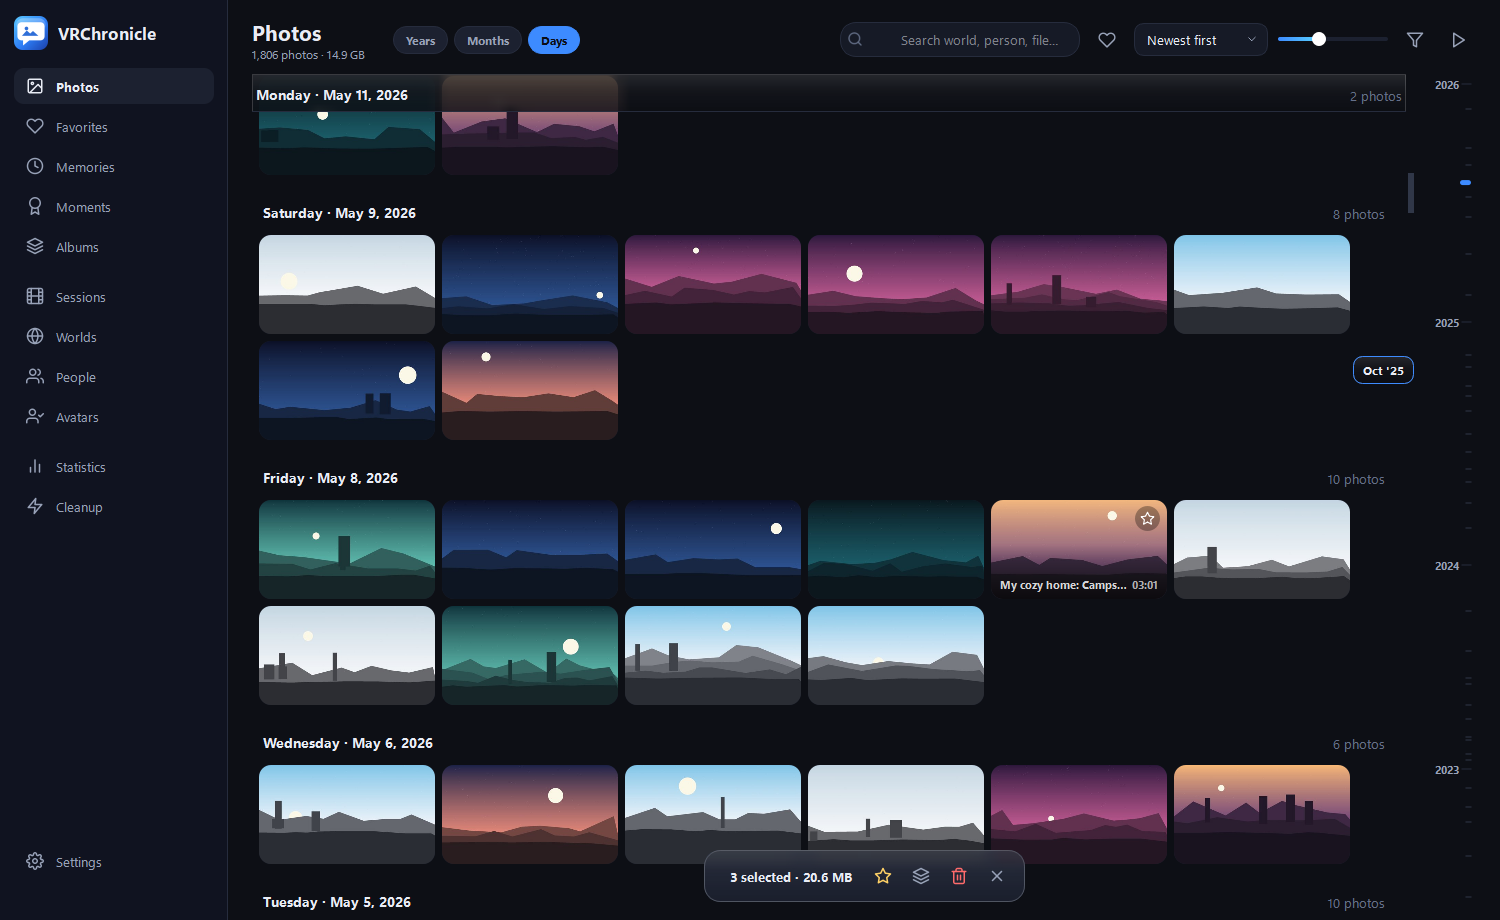
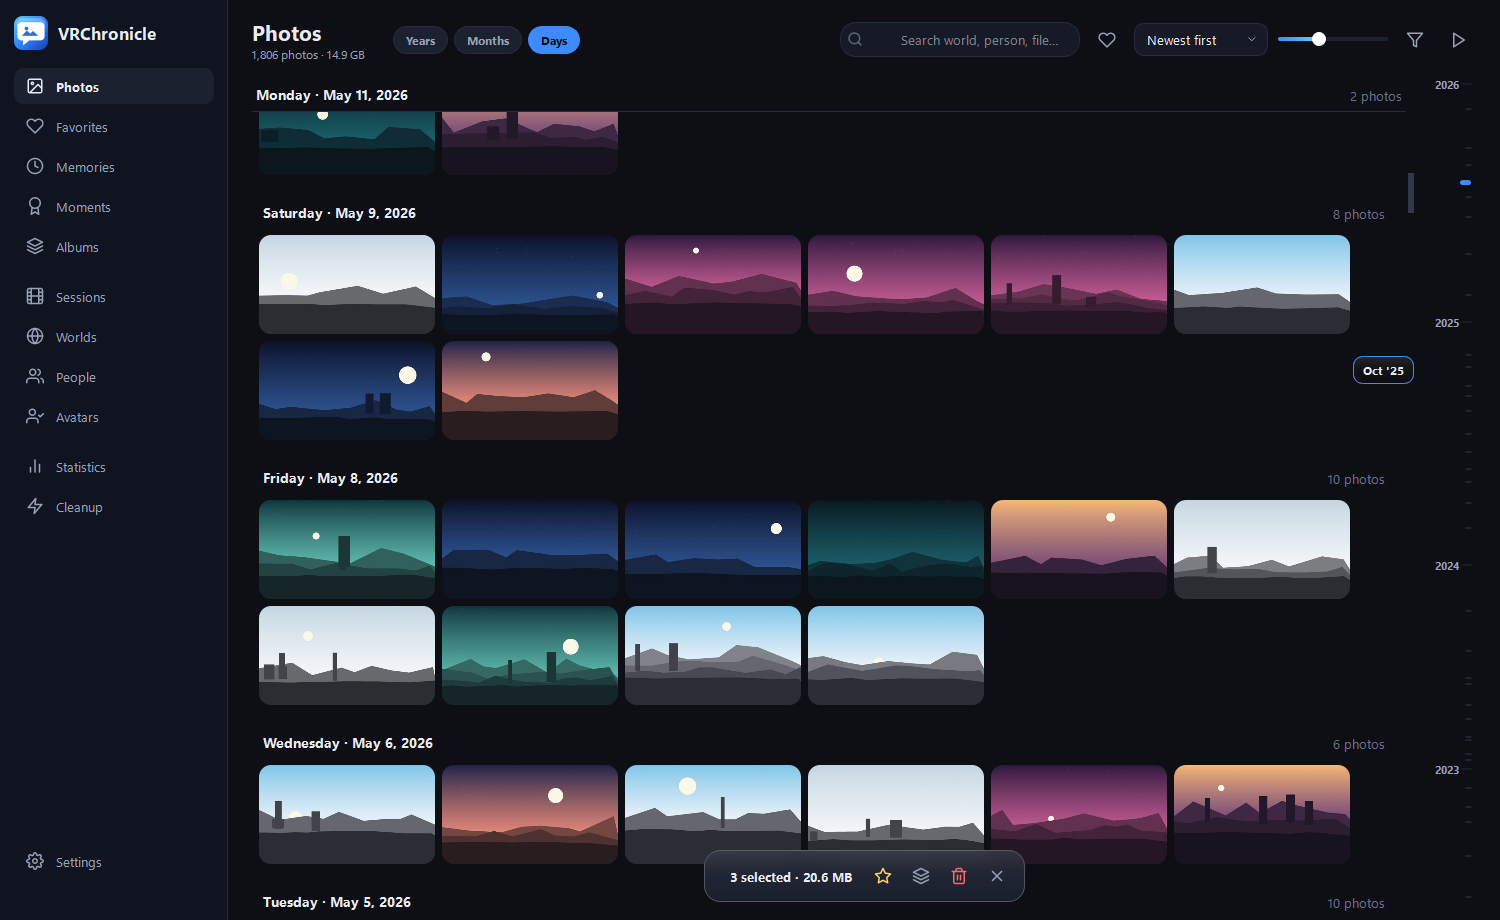
1.6.1: the glass was blocky, and the wrong panel had it
Erik, on 1.6.0: it looks angular and lopsided. Both true, and for two separate
reasons.

Blocky: the blur shrank the sample in ONE step and blew it back up in one, so
a bilinear stretch from a twelfth of the size left visible square blocks. It
now halves repeatedly and doubles back the same way -- halving with a smooth
transform is a true 2x2 average, and a few in a row approximate a gaussian.
Same cost, no blocks.

Lopsided: the pinned day header is the wrong surface for glass and no amount
of blur quality fixes that. It spans the full width of the grid while the
photos under it reach only partway across, so one half was smeared picture and
the other half flat background. Blurring a 38 px strip also only ever produces
horizontal bands. It is solid again.

Glass stays where it belongs: the selection bar, the rail's month bubble and
the toast -- small, rounded, and genuinely sitting on top of photos.

Changed region(s): [[0.276, 0.0609, 0.4293, 0.1217], [0.6747, 0.6087, 0.7667, 0.6391], [0.736, 0.5478, 0.7973, 0.5783]]

diff --git a/vrchronicle/widgets.py b/vrchronicle/widgets.py
@@ -19,8 +19,28 @@ class Glass:
     rendering the parent would draw the panel into its own backdrop.
     """
 
-    SHRINK = 12          # how far down the sample is squashed before blowing up
-    MARGIN = 20          # sample past the edges, so they blur from real content
+    RADIUS = 22          # roughly, in screen pixels
+    MARGIN = 28          # sample past the edges, so they blur from real content
+
+    @staticmethod
+    def _blur(pm, radius=RADIUS):
+        """Halve, then double back.
+
+        Halving with a smooth transform is a true 2x2 average, so a few of them
+        in a row approximate a gaussian. One hard shrink and one hard blow-up
+        does not: it leaves the sample in visible square blocks.
+        """
+        w, h = max(1, pm.width()), max(1, pm.height())
+        small, steps = pm, 0
+        while steps < 5 and (1 << steps) < radius and small.width() > 6 and small.height() > 6:
+            small = small.scaled(max(1, small.width() // 2), max(1, small.height() // 2),
+                                 Qt.IgnoreAspectRatio, Qt.SmoothTransformation)
+            steps += 1
+        for _ in range(steps):       # back up the same way, so nothing steps
+            small = small.scaled(min(w, max(1, small.width() * 2)),
+                                 min(h, max(1, small.height() * 2)),
+                                 Qt.IgnoreAspectRatio, Qt.SmoothTransformation)
+        return small.scaled(w, h, Qt.IgnoreAspectRatio, Qt.SmoothTransformation)
 
     @staticmethod
     def backdrop(widget, source):
@@ -40,11 +60,7 @@ class Glass:
         pm = source.grab(area)
         if pm.isNull():
             return None, None
-        small = pm.size() / Glass.SHRINK
-        if small.width() < 2 or small.height() < 2:
-            small = QSize(max(2, small.width()), max(2, small.height()))
-        blurred = pm.scaled(small, Qt.IgnoreAspectRatio, Qt.SmoothTransformation)
-        blurred = blurred.scaled(pm.size(), Qt.IgnoreAspectRatio, Qt.SmoothTransformation)
+        blurred = Glass._blur(pm)
         # where the sample sits relative to the widget's own origin
         return blurred, QPoint(area.x() - top_left.x(), area.y() - top_left.y())
 

diff --git a/tests/test_smoke_ui.py b/tests/test_smoke_ui.py
@@ -334,14 +334,19 @@ def test_the_floating_panels_render_their_glass(window, app):
     bar = page.view.verticalScrollBar()
     bar.setValue(int(bar.maximum() * 0.35))
     app.processEvents()
-    page._sync_sticky()
-    assert not page.sticky.isHidden()
 
-    # the sticky sits over photos, so the backdrop must actually be sampled
-    blurred, offset = Glass.backdrop(page.sticky, page.view.viewport())
+    from PySide6.QtCore import QItemSelectionModel
+    sel = page.view.selectionModel()
+    for row in range(3, 6):
+        sel.select(page.model.index(row, 0), QItemSelectionModel.Select)
+    app.processEvents()
+    assert not page.selbar.isHidden(), "selecting photos should raise the bar"
+
+    # the selection bar floats over photos, so its backdrop is really sampled
+    blurred, offset = Glass.backdrop(page.selbar, page.view.viewport())
     assert blurred is not None and not blurred.isNull()
     assert offset.x() <= 0 and offset.y() <= 0, "the sample must start outside the panel"
-    assert blurred.width() >= page.sticky.width()
+    assert blurred.width() >= page.selbar.width()
 
     for w in (page.sticky, page.selbar):
         w.resize(max(80, w.width()), max(24, w.height()))

diff --git a/vrchronicle/app.py b/vrchronicle/app.py
@@ -135,10 +135,15 @@ def main(argv=None):
                 page0 = win.page_grid
                 bar = page0.view.verticalScrollBar()
                 base = int(bar.maximum() * 0.12) or 400
-                for extra in range(0, 600, 15):     # land inside a day, not on its header
+                from PySide6.QtCore import QPoint as _QP
+                from .gridmodel import KindRole as _KR, KIND_PHOTO as _KP
+                vp = page0.view.viewport()
+                for extra in range(0, 900, 15):     # inside a day, photos at the foot
                     bar.setValue(base + extra)
                     page0._sync_sticky()
-                    if not page0.sticky.isHidden():
+                    under = page0.view.indexAt(_QP(vp.width() // 2, vp.height() - 60))
+                    if (not page0.sticky.isHidden()
+                            and under.isValid() and under.data(_KR) == _KP):
                         break
                 if key == "glass":              # ...with the floating panels up
                     from PySide6.QtCore import QItemSelectionModel

diff --git a/vrchronicle/gridpage.py b/vrchronicle/gridpage.py
@@ -231,10 +231,11 @@ class StickyDay(QWidget):
         p.setRenderHint(QPainter.Antialiasing, True)
         p.setRenderHint(QPainter.SmoothPixmapTransform, True)
         r = QRectF(self.rect())
-        # square top corners: it is pinned to the edge, not floating free
-        if not widgets.Glass.paint(p, self, self._glass, radius=0,
-                                   tint=style.PAL["bg"], tint_alpha=205):
-            p.fillRect(r, QColor(style.PAL["bg"]))
+        # Solid, deliberately. This bar spans the whole width while the photos
+        # under it only reach partway across, so glass here is half smeared
+        # picture and half flat background -- lopsided, and blurring a 38px
+        # strip only ever produces bands.
+        p.fillRect(r, QColor(style.PAL["bg"]))
         p.setPen(QColor(style.PAL["border"]))
         p.drawLine(QPointF(r.left(), r.bottom() - 0.5),
                    QPointF(r.right(), r.bottom() - 0.5))

diff --git a/vrchronicle/paths.py b/vrchronicle/paths.py
@@ -6,7 +6,7 @@ import faulthandler
 APP_NAME = "VRChronicle"
 APP_TAGLINE = "VRChat photo album"
 APP_ID = "VRChronicle.Desktop"      # AppUserModelID: taskbar grouping identity
-APP_VERSION = "1.6.0"
+APP_VERSION = "1.6.1"
 _LEGACY_NAMES = ("Aperture",)     # data dirs from before the rename
 
 APPDIR = os.path.join(os.environ.get("LOCALAPPDATA", os.path.expanduser("~")), APP_NAME)

diff --git a/README.md b/README.md
@@ -27,10 +27,12 @@ At the Days level the day you are inside stays pinned to the top while you scrol
 right edge jumps through the years — point at it and it names the month you would
 land on.
 
-Anything that floats over your photos — the pinned day, the selection bar, the rail's
-month bubble, notifications — is frosted glass: it samples what is underneath, blurs
-it, and tints it, so the panel belongs to the photo it is sitting on rather than
-covering it up.
+The small panels that float over your photos — the selection bar, the rail's month
+bubble, notifications — are frosted glass: each samples what is underneath, blurs it
+and tints it, so the panel belongs to the photo it is sitting on rather than covering
+it up. The pinned day header is deliberately solid: it spans the full width while the
+photos under it do not, and glass there is half smeared picture and half flat
+background.
 
 ![Frosted panels over the grid](docs/12-glass.png)
 
